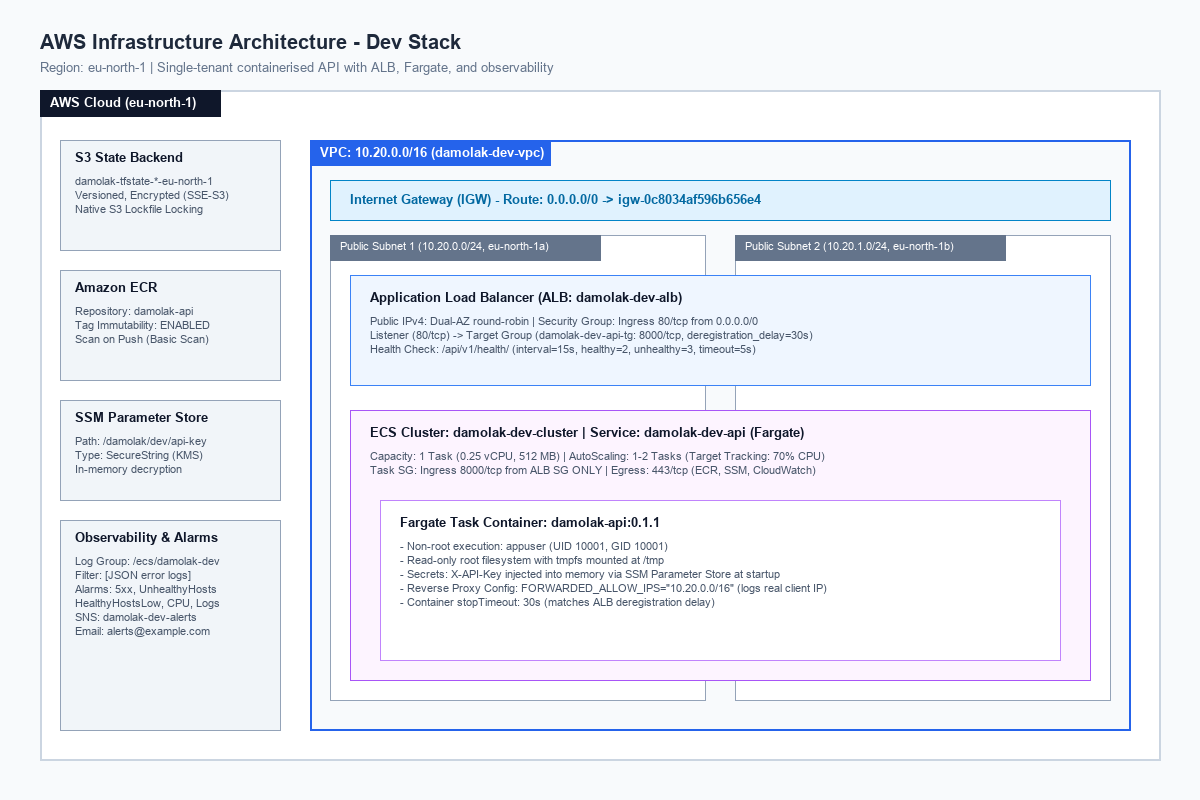
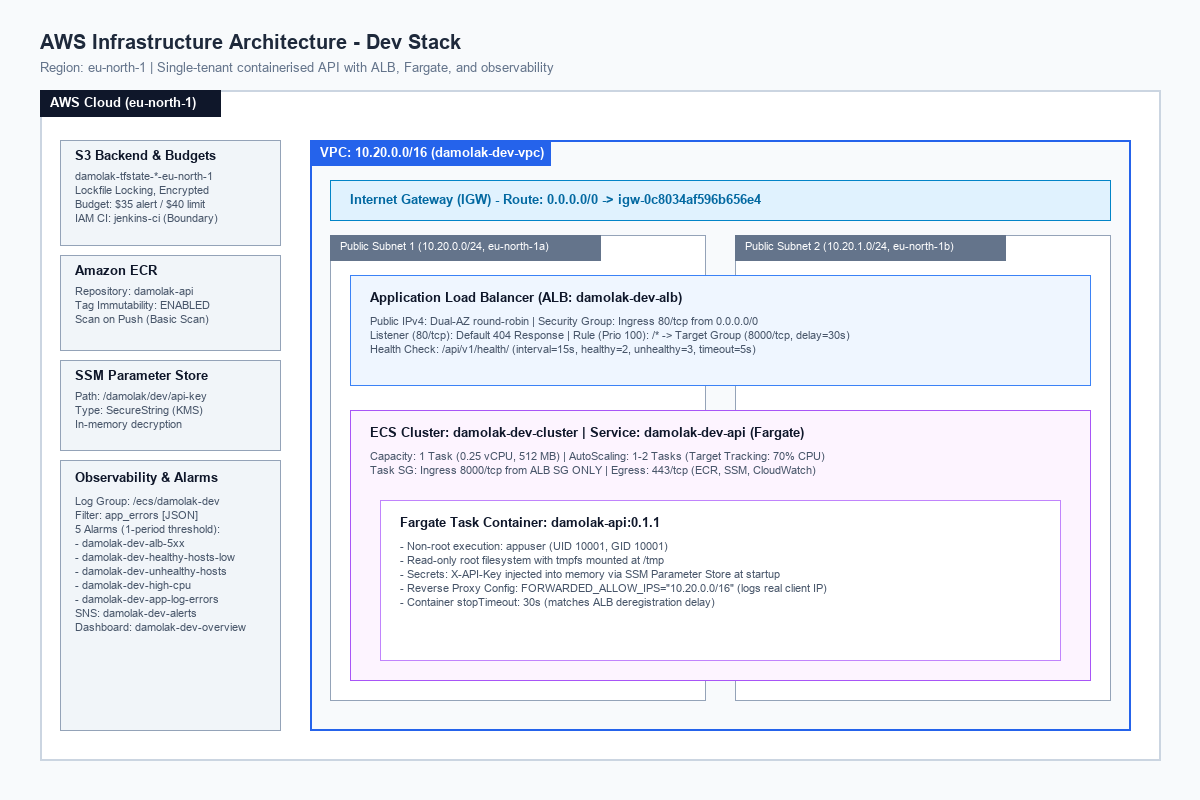
docs: finalize diagram accuracy, teardown specification, and pipeline trace silencing

Changed region(s): [[0.0617, 0.3125, 0.2158, 0.8125], [0.0617, 0.1875, 0.185, 0.2812], [0.37, 0.4062, 0.7092, 0.4375]]

diff --git a/docs/architecture/generate_diagrams.py b/docs/architecture/generate_diagrams.py
@@ -56,39 +56,43 @@ def generate_aws_architecture(output_svg, output_png):
   <rect x="40" y="90" width="180" height="28" rx="4" fill="#0f172a" />
   <text x="50" y="109" fill="#ffffff" font-size="12px" font-weight="bold">AWS Cloud (eu-north-1)</text>
 
-  <!-- External S3 State & SSM & ECR & Observability (Outside VPC) -->
+  <!-- External S3 State & SSM & ECR & Observability & Budgets (Outside VPC) -->
   <g transform="translate(60, 140)">
-    <!-- S3 State Backend -->
+    <!-- S3 State Backend & AWS Budgets -->
     <rect x="0" y="0" width="220" height="110" rx="8" fill="#f1f5f9" stroke="#94a3b8" stroke-width="1.5" />
-    <text x="15" y="25" class="box-title">S3 State Backend</text>
-    <text x="15" y="45" class="box-desc">damolak-tfstate-*-eu-north-1</text>
-    <text x="15" y="65" class="box-desc">Versioned, Encrypted (SSE-S3)</text>
-    <text x="15" y="85" class="box-desc">Native S3 Lockfile Locking</text>
+    <text x="15" y="24" class="box-title">S3 Backend &amp; Budgets</text>
+    <text x="15" y="44" class="box-desc">S3: damolak-tfstate-*-eu-north-1</text>
+    <text x="15" y="64" class="box-desc">Lockfile Locking, Encrypted</text>
+    <text x="15" y="84" class="box-desc">Budget: $35 alert / $40 limit</text>
+    <text x="15" y="102" class="box-desc">IAM CI: jenkins-ci (Boundary)</text>
 
     <!-- ECR Repository -->
-    <rect x="0" y="130" width="220" height="110" rx="8" fill="#f1f5f9" stroke="#94a3b8" stroke-width="1.5" />
-    <text x="15" y="155" class="box-title">Amazon ECR</text>
-    <text x="15" y="175" class="box-desc">Repository: damolak-api</text>
-    <text x="15" y="195" class="box-desc">Tag Immutability: ENABLED</text>
-    <text x="15" y="215" class="box-desc">Scan on Push (Basic Scan)</text>
+    <rect x="0" y="125" width="220" height="95" rx="8" fill="#f1f5f9" stroke="#94a3b8" stroke-width="1.5" />
+    <text x="15" y="148" class="box-title">Amazon ECR</text>
+    <text x="15" y="168" class="box-desc">Repository: damolak-api</text>
+    <text x="15" y="188" class="box-desc">Tag Immutability: ENABLED</text>
+    <text x="15" y="208" class="box-desc">Scan on Push (Basic Scan)</text>
 
     <!-- SSM Parameter Store -->
-    <rect x="0" y="260" width="220" height="100" rx="8" fill="#f1f5f9" stroke="#94a3b8" stroke-width="1.5" />
-    <text x="15" y="285" class="box-title">SSM Parameter Store</text>
-    <text x="15" y="305" class="box-desc">Path: /damolak/dev/api-key</text>
-    <text x="15" y="325" class="box-desc">Type: SecureString (KMS)</text>
-    <text x="15" y="345" class="box-desc">In-memory decryption</text>
+    <rect x="0" y="235" width="220" height="90" rx="8" fill="#f1f5f9" stroke="#94a3b8" stroke-width="1.5" />
+    <text x="15" y="258" class="box-title">SSM Parameter Store</text>
+    <text x="15" y="278" class="box-desc">Path: /damolak/dev/api-key</text>
+    <text x="15" y="298" class="box-desc">Type: SecureString (KMS)</text>
+    <text x="15" y="316" class="box-desc">In-memory decryption</text>
 
     <!-- Observability / SNS -->
-    <rect x="0" y="380" width="220" height="210" rx="8" fill="#f1f5f9" stroke="#94a3b8" stroke-width="1.5" />
-    <text x="15" y="405" class="box-title">Observability &amp; Alarms</text>
-    <text x="15" y="425" class="box-desc">Log Group: /ecs/damolak-dev</text>
-    <text x="15" y="445" class="box-desc">Metric Filter: [JSON errors]</text>
-    <text x="15" y="465" class="box-desc">Alarms: 5xx, UnhealthyHosts,</text>
-    <text x="15" y="485" class="box-desc">HealthyHostsLow, CPU, Errors</text>
-    <text x="15" y="515" class="box-title" font-size="12px">SNS Topic: damolak-dev-alerts</text>
-    <text x="15" y="535" class="box-desc">Email: alerts@example.com</text>
-    <text x="15" y="555" class="box-desc">Dashboard: damolak-dev-overview</text>
+    <rect x="0" y="340" width="220" height="250" rx="8" fill="#f1f5f9" stroke="#94a3b8" stroke-width="1.5" />
+    <text x="15" y="364" class="box-title">Observability &amp; Alarms</text>
+    <text x="15" y="384" class="box-desc">Log Group: /ecs/damolak-dev</text>
+    <text x="15" y="404" class="box-desc">Metric Filter: app_errors [JSON]</text>
+    <text x="15" y="424" class="box-desc">5 Alarms (1-period threshold):</text>
+    <text x="15" y="444" class="box-desc">- damolak-dev-alb-5xx</text>
+    <text x="15" y="462" class="box-desc">- damolak-dev-healthy-hosts-low</text>
+    <text x="15" y="480" class="box-desc">- damolak-dev-unhealthy-hosts</text>
+    <text x="15" y="498" class="box-desc">- damolak-dev-high-cpu</text>
+    <text x="15" y="516" class="box-desc">- damolak-dev-app-log-errors</text>
+    <text x="15" y="542" class="box-title" font-size="12px">SNS: damolak-dev-alerts</text>
+    <text x="15" y="562" class="box-desc">Dashboard: damolak-dev-overview</text>
   </g>
 
   <!-- VPC Boundary -->
@@ -114,8 +118,8 @@ def generate_aws_architecture(output_svg, output_png):
   <rect x="350" y="285" width="740" height="110" rx="8" fill="#eff6ff" stroke="#3b82f6" stroke-width="1.5" />
   <text x="370" y="310" class="box-title">Application Load Balancer (ALB: damolak-dev-alb)</text>
   <text x="370" y="330" class="box-desc">Public IPv4: Dual-AZ round-robin | Security Group: Ingress 80/tcp from 0.0.0.0/0</text>
-  <text x="370" y="350" class="box-desc">HTTP Listener (Port 80) -&gt; Target Group (damolak-dev-api-tg: Port 8000, deregistration_delay=30s)</text>
-  <text x="370" y="370" class="box-desc">Health Check: /api/v1/health/ (interval=15s, healthy=2, unhealthy=3, timeout=5s)</text>
+  <text x="370" y="350" class="box-desc">HTTP Listener (Port 80): Default 404 Fixed-Response | Rule (Prio 100): /* -&gt; Target Group</text>
+  <text x="370" y="370" class="box-desc">Target Group (damolak-dev-api-tg: Port 8000, deregistration_delay=30s) | Health Check: /api/v1/health/</text>
 
   <!-- ECS Fargate Service -->
   <rect x="350" y="420" width="740" height="270" rx="8" fill="#fdf4ff" stroke="#a855f7" stroke-width="1.5" />
@@ -186,25 +190,25 @@ def generate_aws_architecture(output_svg, output_png):
     draw.rectangle([40, 90, 220, 116], fill=(15, 23, 42))
     draw.text((50, 95), "AWS Cloud (eu-north-1)", fill=(255, 255, 255), font=f_box_t)
 
-    # S3 State
+    # S3 State & Budgets
     draw.rectangle(
-        [60, 140, 280, 250], fill=(241, 245, 249), outline=(148, 163, 184), width=1
+        [60, 140, 280, 245], fill=(241, 245, 249), outline=(148, 163, 184), width=1
     )
-    draw.text((75, 150), "S3 State Backend", fill=(15, 23, 42), font=f_box_t)
+    draw.text((75, 148), "S3 Backend & Budgets", fill=(15, 23, 42), font=f_box_t)
     draw.text(
-        (75, 175),
-        "damolak-tfstate-*-eu-north-1\nVersioned, Encrypted (SSE-S3)\nNative S3 Lockfile Locking",
+        (75, 170),
+        "damolak-tfstate-*-eu-north-1\nLockfile Locking, Encrypted\nBudget: $35 alert / $40 limit\nIAM CI: jenkins-ci (Boundary)",
         fill=(71, 85, 105),
         font=f_box_d,
     )
 
     # ECR
     draw.rectangle(
-        [60, 270, 280, 380], fill=(241, 245, 249), outline=(148, 163, 184), width=1
+        [60, 255, 280, 350], fill=(241, 245, 249), outline=(148, 163, 184), width=1
     )
-    draw.text((75, 280), "Amazon ECR", fill=(15, 23, 42), font=f_box_t)
+    draw.text((75, 263), "Amazon ECR", fill=(15, 23, 42), font=f_box_t)
     draw.text(
-        (75, 305),
+        (75, 285),
         "Repository: damolak-api\nTag Immutability: ENABLED\nScan on Push (Basic Scan)",
         fill=(71, 85, 105),
         font=f_box_d,
@@ -212,11 +216,11 @@ def generate_aws_architecture(output_svg, output_png):
 
     # SSM
     draw.rectangle(
-        [60, 400, 280, 500], fill=(241, 245, 249), outline=(148, 163, 184), width=1
+        [60, 360, 280, 450], fill=(241, 245, 249), outline=(148, 163, 184), width=1
     )
-    draw.text((75, 410), "SSM Parameter Store", fill=(15, 23, 42), font=f_box_t)
+    draw.text((75, 368), "SSM Parameter Store", fill=(15, 23, 42), font=f_box_t)
     draw.text(
-        (75, 435),
+        (75, 390),
         "Path: /damolak/dev/api-key\nType: SecureString (KMS)\nIn-memory decryption",
         fill=(71, 85, 105),
         font=f_box_d,
@@ -224,12 +228,12 @@ def generate_aws_architecture(output_svg, output_png):
 
     # Observability
     draw.rectangle(
-        [60, 520, 280, 730], fill=(241, 245, 249), outline=(148, 163, 184), width=1
+        [60, 460, 280, 730], fill=(241, 245, 249), outline=(148, 163, 184), width=1
     )
-    draw.text((75, 530), "Observability & Alarms", fill=(15, 23, 42), font=f_box_t)
+    draw.text((75, 470), "Observability & Alarms", fill=(15, 23, 42), font=f_box_t)
     draw.text(
-        (75, 555),
-        "Log Group: /ecs/damolak-dev\nFilter: [JSON error logs]\nAlarms: 5xx, UnhealthyHosts\nHealthyHostsLow, CPU, Logs\nSNS: damolak-dev-alerts\nEmail: alerts@example.com",
+        (75, 495),
+        "Log Group: /ecs/damolak-dev\nFilter: app_errors [JSON]\n5 Alarms (1-period threshold):\n- damolak-dev-alb-5xx\n- damolak-dev-healthy-hosts-low\n- damolak-dev-unhealthy-hosts\n- damolak-dev-high-cpu\n- damolak-dev-app-log-errors\nSNS: damolak-dev-alerts\nDashboard: damolak-dev-overview",
         fill=(71, 85, 105),
         font=f_box_d,
     )
@@ -292,7 +296,7 @@ def generate_aws_architecture(output_svg, output_png):
     )
     draw.text(
         (370, 315),
-        "Public IPv4: Dual-AZ round-robin | Security Group: Ingress 80/tcp from 0.0.0.0/0\nListener (80/tcp) -> Target Group (damolak-dev-api-tg: 8000/tcp, deregistration_delay=30s)\nHealth Check: /api/v1/health/ (interval=15s, healthy=2, unhealthy=3, timeout=5s)",
+        "Public IPv4: Dual-AZ round-robin | Security Group: Ingress 80/tcp from 0.0.0.0/0\nListener (80/tcp): Default 404 Response | Rule (Prio 100): /* -> Target Group (8000/tcp, delay=30s)\nHealth Check: /api/v1/health/ (interval=15s, healthy=2, unhealthy=3, timeout=5s)",
         fill=(71, 85, 105),
         font=f_box_d,
     )

diff --git a/README.md b/README.md
@@ -207,20 +207,29 @@ The AWS account sits within an AWS Organization whose Service Control Policy (SC
 | **Fargate Public IPv4 Address** | $0.0050 | $3.60 | Public subnet assignment |
 | **Total Dev Rate** | **$0.0574/hr** | **~$41.33/mo** | ~$1.38/day |
 
-### Complete Teardown Procedure
+### Teardown Procedure
 
-To stop all hourly charges:
+The destroy path was validated by plan only (`terraform plan -destroy` reports 0 to add, 0 to change, 36 to destroy).
 
-```bash
-# Destroy dev environment
-terraform -chdir=infra/envs/dev destroy -auto-approve
+To stop all hourly charges when work is complete:
 
-# Destroy shared resources
-terraform -chdir=infra/envs/shared destroy -auto-approve
+1. **Tier 1 Teardown (`make down`):**
+   - **Removes:** 36 dev runtime resources (ALB, listener, rule, target group, ECS cluster, service, tasks, VPC, subnets, route tables, IGW, security groups, CloudWatch alarms, dashboard, log group, and SNS topic), reducing runtime costs to **$0.00/hr**.
+   - **Preserves:** S3 state bucket (`damolak-tfstate-*-eu-north-1`), ECR repository and images (`damolak-api`), SSM API key parameter, AWS Budget, and CI IAM user.
+   ```bash
+   make down
+   ```
 
-# Confirm zero billable resources remain
-AWS_PROFILE=damolak AWS_REGION=eu-north-1 bash scripts/cost-check.sh
-```
+2. **Tier 2 Teardown (`make nuke`):**
+   - Destroys dev runtime resources, shared ECR and IAM resources, and empties the S3 state bucket for full account teardown.
+   ```bash
+   make nuke
+   ```
+
+3. **Verify Zero Billable Resources:**
+   ```bash
+   make cost-check
+   ```
 
 ---
 
